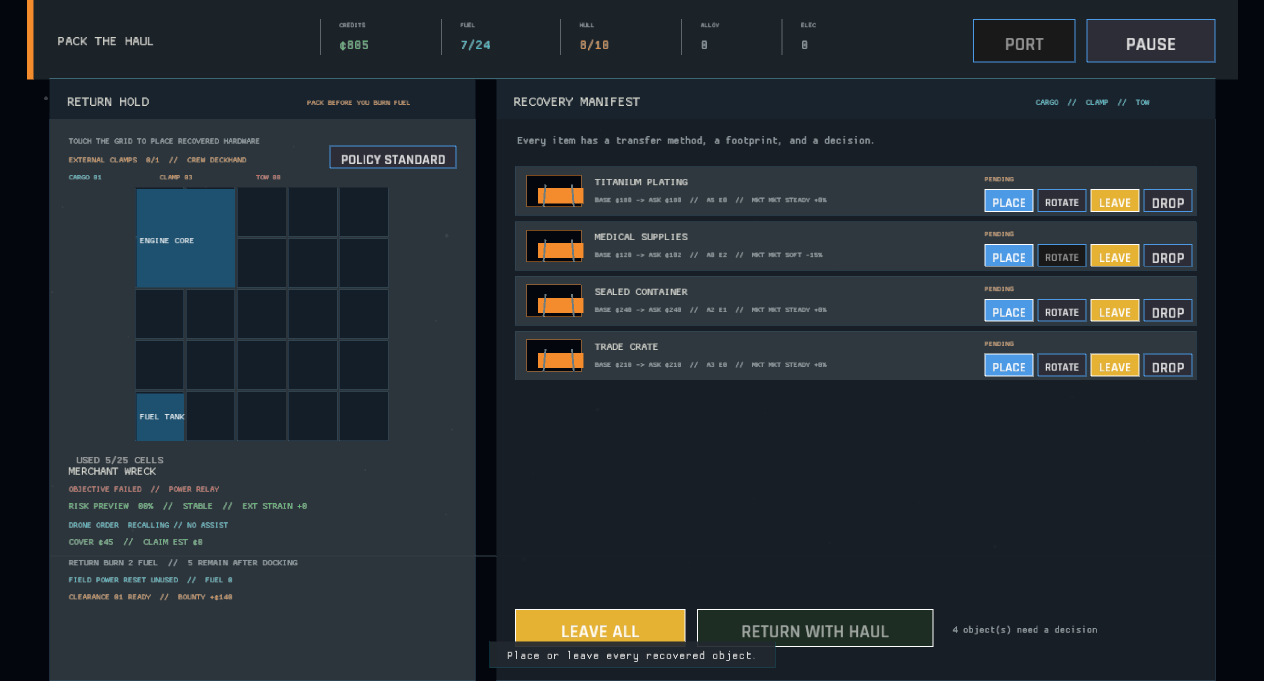
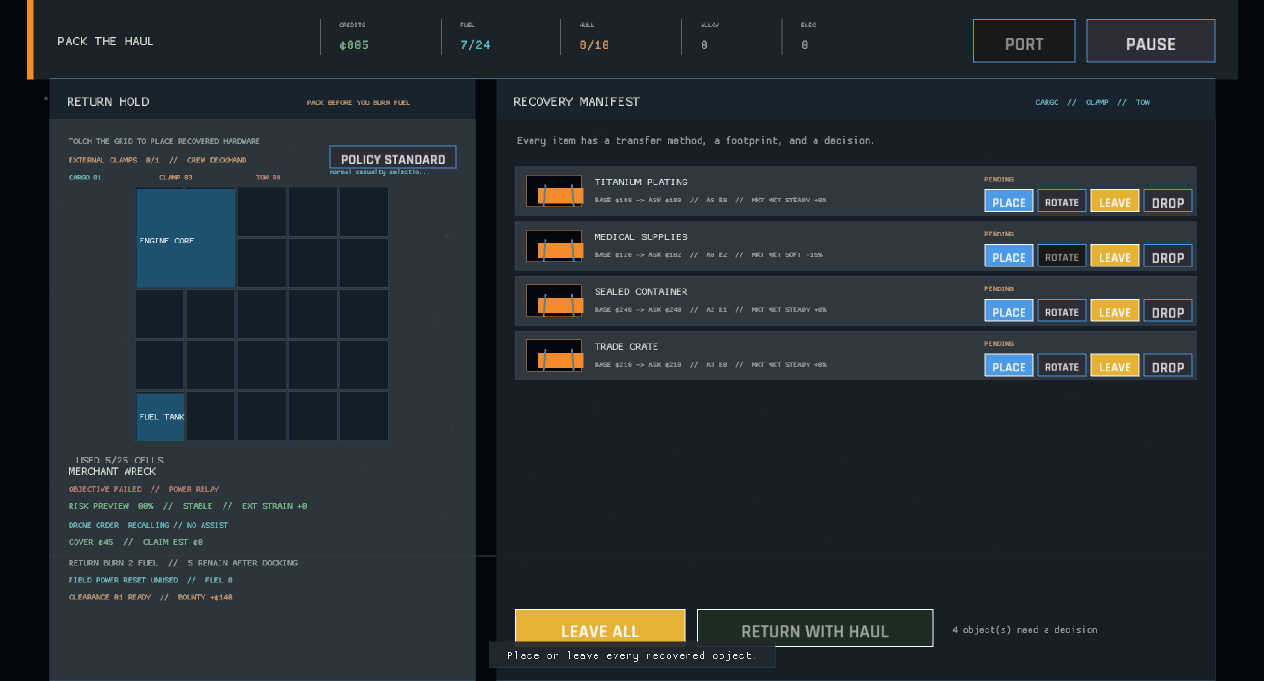
The hold explains what its return policy protects (return policy affordance)
The packing deck now prints the selected casualty rule directly beneath the policy control. This makes the three return priorities understandable at the moment of loading, with a focused description assertion and refreshed packing capture.

diff --git a/src/ui/salvage_items.rs b/src/ui/salvage_items.rs
@@ -63,6 +63,13 @@ fn draw_hold_panel(ctx: &UiContext<'_>, actions: &mut Vec<UiAction>) {
     ) {
         actions.push(UiAction::CycleReturnPolicy);
     }
+    draw_text(
+        &clipped(&return_policy.description(), 24),
+        hold.right() - 154.0,
+        hold.y + 100.0,
+        9.0,
+        visual_theme::cyan(),
+    );
     let (cargo_count, clamp_count, tow_count) = transfer_counts(ctx);
     draw_text(
         format!("CARGO {:02}", cargo_count),

diff --git a/src/ui/salvage_items/tests.rs b/src/ui/salvage_items/tests.rs
@@ -58,6 +58,10 @@ fn packing_hold_names_the_active_return_policy() {
         return_policy_button_label(crate::state::ReturnPolicy::ProtectObjective),
         "POLICY  OBJECTIVE"
     );
+    assert_eq!(
+        crate::state::ReturnPolicy::ProtectObjective.description(),
+        "sacrifice another load before the contract target"
+    );
 }
 
 #[test]
